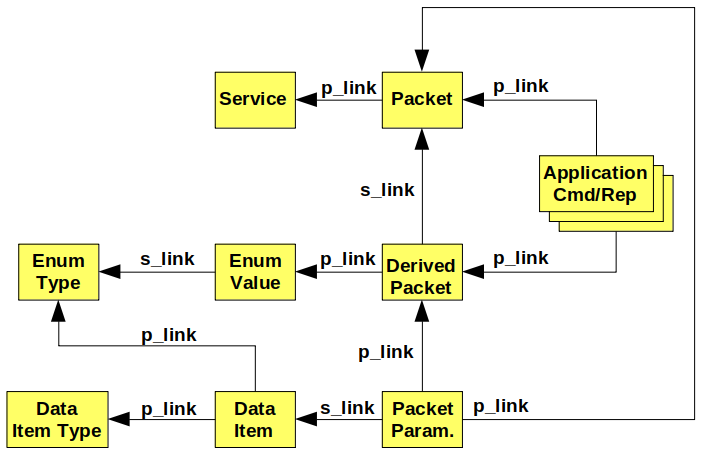
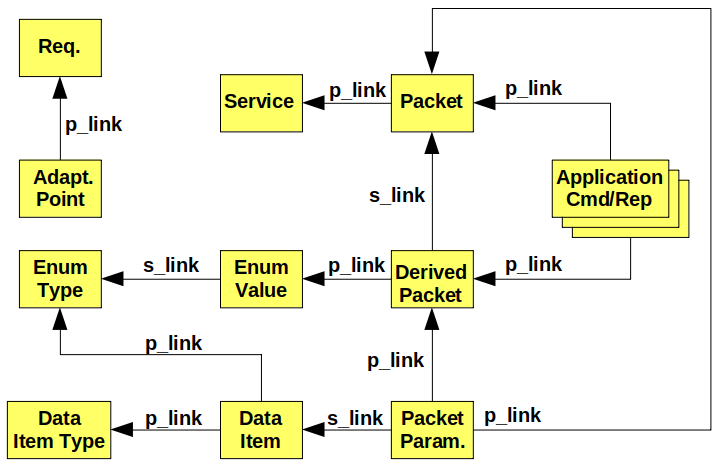
Added AdaptPoint category for spec_items

Changed region(s): [[0.0, 0.0, 0.9958, 0.9868], [0.0, 0.2467, 0.1867, 0.4626], [0.0, 0.0308, 0.1556, 0.2159]]

diff --git a/editor/templates/help.html b/editor/templates/help.html
@@ -206,6 +206,12 @@
         <li>Primary Kind: the kind of requirement (standard requirement, adaptation requirement, or constraint requirement)</li>
         <li>Secondary Kind: the verification method for the requirement</li>
         </ul>
+    <li><i>Adaptation Point</i>: specification of an adaptation point of an application</li>
+        <ul>
+        <li>Value: the default value of the adaptation point</li>
+        <li>Primary Kind: the level of the adaptation point (specification level or implementation level)</li>
+        <li>Primary Link: the requirement which makes the adaptation point applicable</li>
+        </ul>
     <li><i>Data Item Type</i>: specification of a non-enumerated data item type </li>
         <ul>
         <li>Value: the default value for instances of the type</li>

diff --git a/editor/templates/index.html b/editor/templates/index.html
@@ -104,6 +104,9 @@
                     href="{% url 'list_spec_items' 'Requirement' item.project.id application.id item.default_val_set_id 'All_Domains' %}"
                     title="Manage Requirements">Req</a>
                 <a class="btn btn-outline-dark btn-sm"
+                    href="{% url 'list_spec_items' 'AdaptPoint' item.project.id application.id item.default_val_set_id 'All_Domains' %}"
+                    title="Manage Adaptation Points">AP</a>
+                <a class="btn btn-outline-dark btn-sm"
                     href="{% url 'list_spec_items' 'Model' item.project.id application.id item.default_val_set_id 'All_Domains' %}"
                     title="Manage Behavioural Models">Mod</a>
                 <a class="btn btn-outline-dark btn-sm"

diff --git a/editor/utilities.py b/editor/utilities.py
@@ -391,38 +391,47 @@ def get_s_kind_choices(cat):
     return (("INV","Invalid"),)
   
   
-def get_p_link_choices(cat, project_id, p_parent_id):
-    """ Return the range of choices for the 'p_link' attribute of a spec_item of a given category """
+def get_p_link_choices(cat, project, application, p_parent_id):
+    """ 
+        If p_parent_id is different from None, the function returns the spec_items which 
+        have p_parent_id as their p_link parent. Otherwise, it returns the range of 
+        choices for the 'p_link' attribute of a spec_item of a given category 
+    """
     if p_parent_id != None:
         return SpecItem.objects.filter(id=int(p_parent_id)) 
     if cat == 'DataItem':
-        q1 = SpecItem.objects.filter(project_id=project_id, cat='DataItemType').\
+        q1 = SpecItem.objects.filter(project_id=project.id, cat='DataItemType').\
                         exclude(status='DEL').exclude(status='OBS').order_by('domain', 'name')        
-        q2 = SpecItem.objects.filter(project_id=project_id, cat='EnumType').\
+        q2 = SpecItem.objects.filter(project_id=project.id, cat='EnumType').\
                         exclude(status='DEL').exclude(status='OBS').order_by('domain', 'name') 
         return q1 | q2
     if cat == 'VerLink':
-        return SpecItem.objects.filter(project_id=project_id, cat='VerItem').\
+        return SpecItem.objects.filter(project_id=project.id, cat='VerItem').\
                         exclude(status='DEL').exclude(status='OBS').order_by('domain', 'name')    
     if cat == 'Packet':
-        return SpecItem.objects.filter(project_id=project_id, cat='Service').\
+        return SpecItem.objects.filter(project_id=project.id, cat='Service').\
                         exclude(status='DEL').exclude(status='OBS').order_by('domain', 'name')    
+    if (cat == 'AdaptPoint') and (application != None):
+        return SpecItem.objects.filter(application_id=application.id, cat='Requirement').\
+                        exclude(status='DEL').exclude(status='OBS').order_by('domain', 'name')    
+                        
     return SpecItem.objects.none()
     
     
-    
-    
-def get_s_link_choices(cat, project_id, s_parent_id):
-    """ Return the range of choices for the 's_link' attribute of a spec_item of a given category """
+def get_s_link_choices(cat, project, application, s_parent_id):
+    """ 
+        If s_parent_id is different from None, the function returns the spec_items which 
+        have s_parent_id as their s_link parent. Otherwise, it returns the range of 
+        choices for the 's_link' attribute of a spec_item of a given category 
+    """
     if s_parent_id != None:
         return SpecItem.objects.filter(id=int(s_parent_id))
     if cat == 'EnumValue':
-        return SpecItem.objects.filter(project_id=project_id, cat='EnumType'). \
+        return SpecItem.objects.filter(project_id=project.id, cat='EnumType'). \
                         exclude(status='DEL').exclude(status='OBS').order_by('domain', 'name')
     if cat == 'VerLink':
-        return SpecItem.objects.filter(project_id=project_id).exclude(cat='VerItem').exclude(cat='VerLink'). \
+        return SpecItem.objects.filter(project_id=project.id).exclude(cat='VerItem').exclude(cat='VerLink'). \
                         exclude(status='DEL').exclude(status='OBS').order_by('cat', 'domain', 'name')
-                        
                         
     return SpecItem.objects.none()
     

diff --git a/editor/configs.py b/editor/configs.py
@@ -27,6 +27,25 @@ configs = {'General': {'csv_sep': '|',
                                    's_kind':    {'label': 'Ver', 'req_in_form': True, 'kind': 'plain_text'}
                                   }
                          },
+           'AdaptPoint':{'name': 'Adaptation Point',
+                          'ext_attrs': [],
+                          'n_list_fields': 6,
+                          'expand': {'s_link': 'None', 
+                                     'p_link': 'Requirement'},
+                          'attrs': {'domain':   {'label': 'Domain', 'req_in_form': True, 'kind': 'plain_text'},
+                                   'name':      {'label': 'Name', 'req_in_form': True, 'kind': 'plain_text'},
+                                   'title':     {'label': 'Title', 'req_in_form': True, 'kind': 'plain_text'},
+                                   'desc':      {'label': 'Description', 'req_in_form': False, 'kind': 'ref_text'},
+                                   'value':     {'label': 'Text', 'req_in_form': True, 'kind': 'ref_text'},
+                                   'rationale': {'label': 'Rationale', 'req_in_form': False, 'kind': 'ref_text'},
+                                   'remarks':   {'label': 'Remarks', 'req_in_form': False, 'kind': 'ref_text'},
+                                   'implementation':  {'label': 'Implementation', 'req_in_form': False, 'kind': 'ref_text'},
+                                   'p_kind':    {'label': 'Kind', 'req_in_form': True, 'kind': 'plain_text'},
+                                   'p_link':    {'label': 'Parent Req', 'req_in_form': False, 'kind': 'plain_ref'},
+                                   'val_set':   {'label': 'ValSet',  'req_in_form': False, 'kind': 'plain_ref'},
+                                   'owner':     {'label': 'Owner',  'req_in_form': False, 'kind': 'plain_text'}
+                                  }
+                         },
                'DataItemType': {'name': 'Data Item Type',
                           'ext_attrs': [],
                           'n_list_fields': 6,

diff --git a/editor/forms.py b/editor/forms.py
@@ -122,8 +122,8 @@ class SpecItemForm(forms.Form):
         self.fields['t5'].widget.attrs.update(rows = 1)
         self.fields['p_kind'].choices = get_p_kind_choices(cat)
         self.fields['s_kind'].choices = get_s_kind_choices(cat)
-        self.fields['p_link'].queryset = get_p_link_choices(cat, self.project.id, p_parent_id)
-        self.fields['s_link'].queryset = get_s_link_choices(cat, self.project.id, s_parent_id)
+        self.fields['p_link'].queryset = get_p_link_choices(cat, self.project, self.application, p_parent_id)
+        self.fields['s_link'].queryset = get_s_link_choices(cat, self.project, self.application, s_parent_id)
         self.fields['n1'].initial = 0
         self.fields['n2'].initial = 0
         self.fields['n3'].initial = 0

diff --git a/editor/choices.py b/editor/choices.py
@@ -10,6 +10,7 @@ HISTORY_STATUS = (
 # The specification item categories
 SPEC_ITEM_CAT = (
     ("Requirement","An application requirement"),
+    ("AdaptPoint","An adaptation point"),
     ("DataItemType","A non-enumerated data item type"),
     ("EnumType","An enumerated data item type"),
     ("EnumValue","An enumerated item"),
@@ -33,12 +34,17 @@ REQ_KIND = (
     ("AP","Adaptation Point Requirement"),
 )
 
+# The kind of adaptation point
+AP_KIND = (
+    ("SPC","Specification Level"),
+    ("IMP","Implementation Level"),
+)
+
 # The role of a project user
 USER_ROLE = (
     ("RO","Read-Only"),
     ("RW","Read-Write"),
 )
-
 
 # The kind of a data item
 DI_KIND = (
